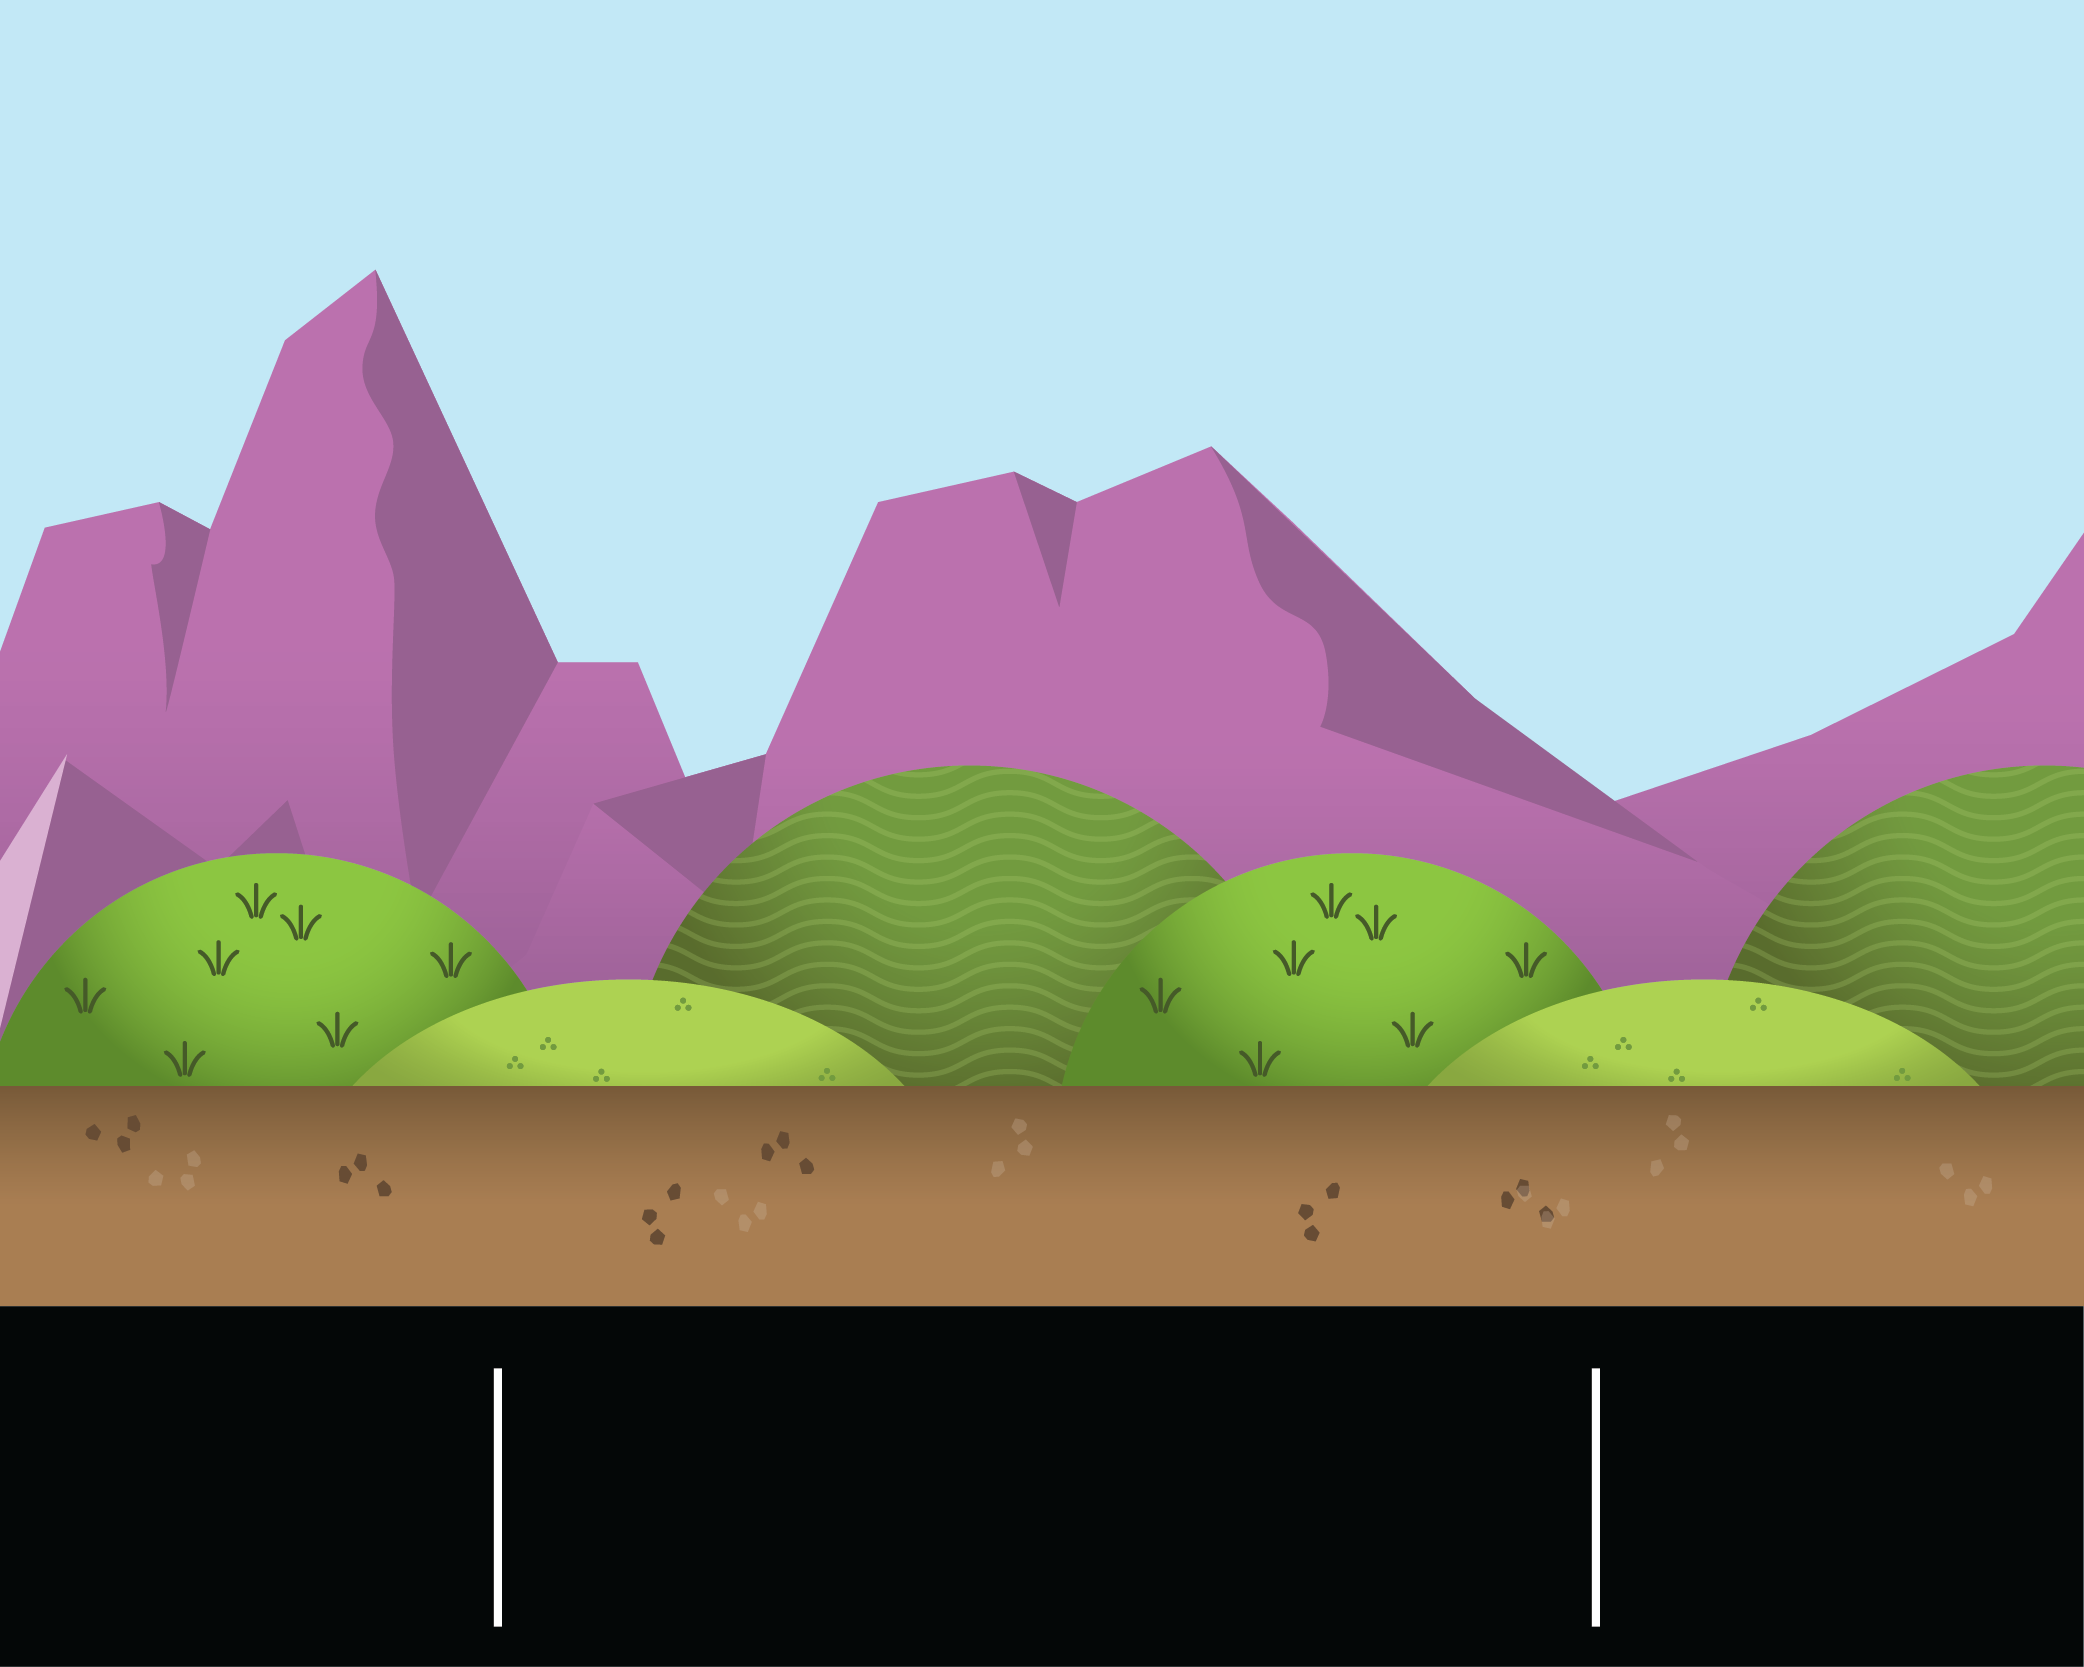
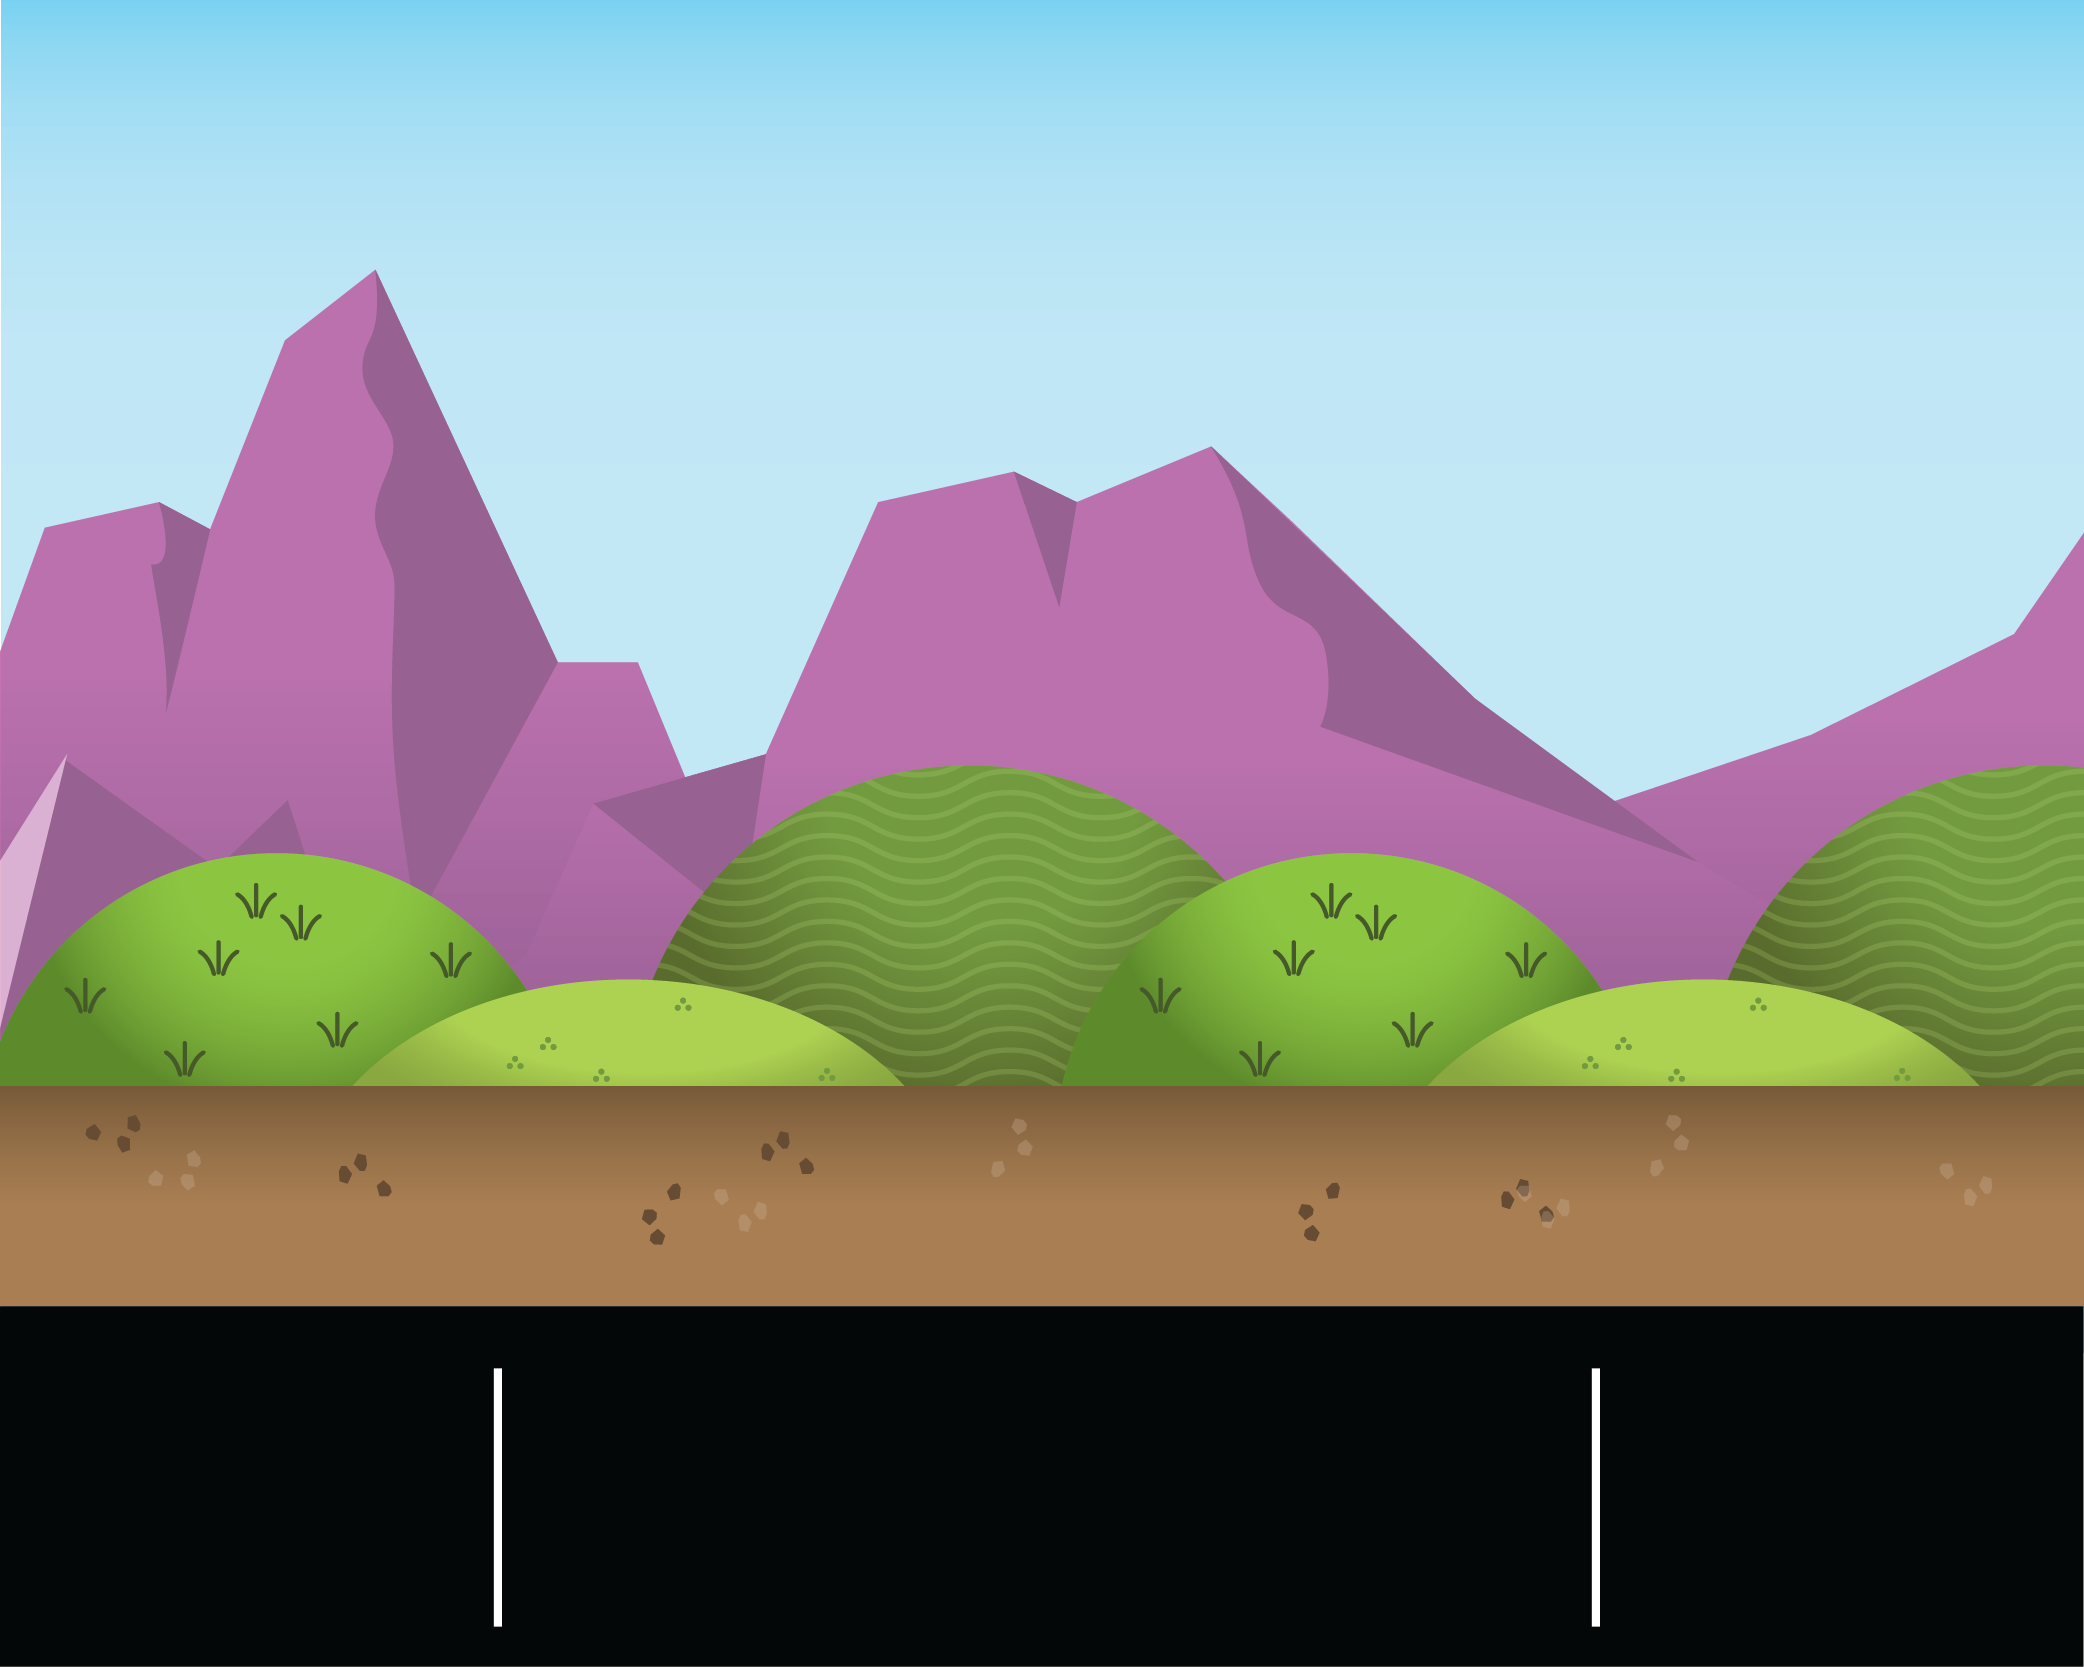
BG/Animation Edits
Slight change to BG art
Speed up the galloping animation slightly

Changed region(s): [[0.0, 0.0, 1.0, 0.0936], [0.9981, 0.811, 1.0, 1.0]]

diff --git a/Horse Game/src/horsegame/HorseGame.java b/Horse Game/src/horsegame/HorseGame.java
@@ -143,7 +143,7 @@ public class HorseGame extends PApplet {
 		case RUNNING:
 			int startTime = millis();
 			int timer = (millis() - startTime) / 1000;
-			if (frameCount % 8 == 0) {
+			if (frameCount % 6 == 0) {
 				animationFrame++;
 				animationFrame = animationFrame % sprites.length;
 			}
